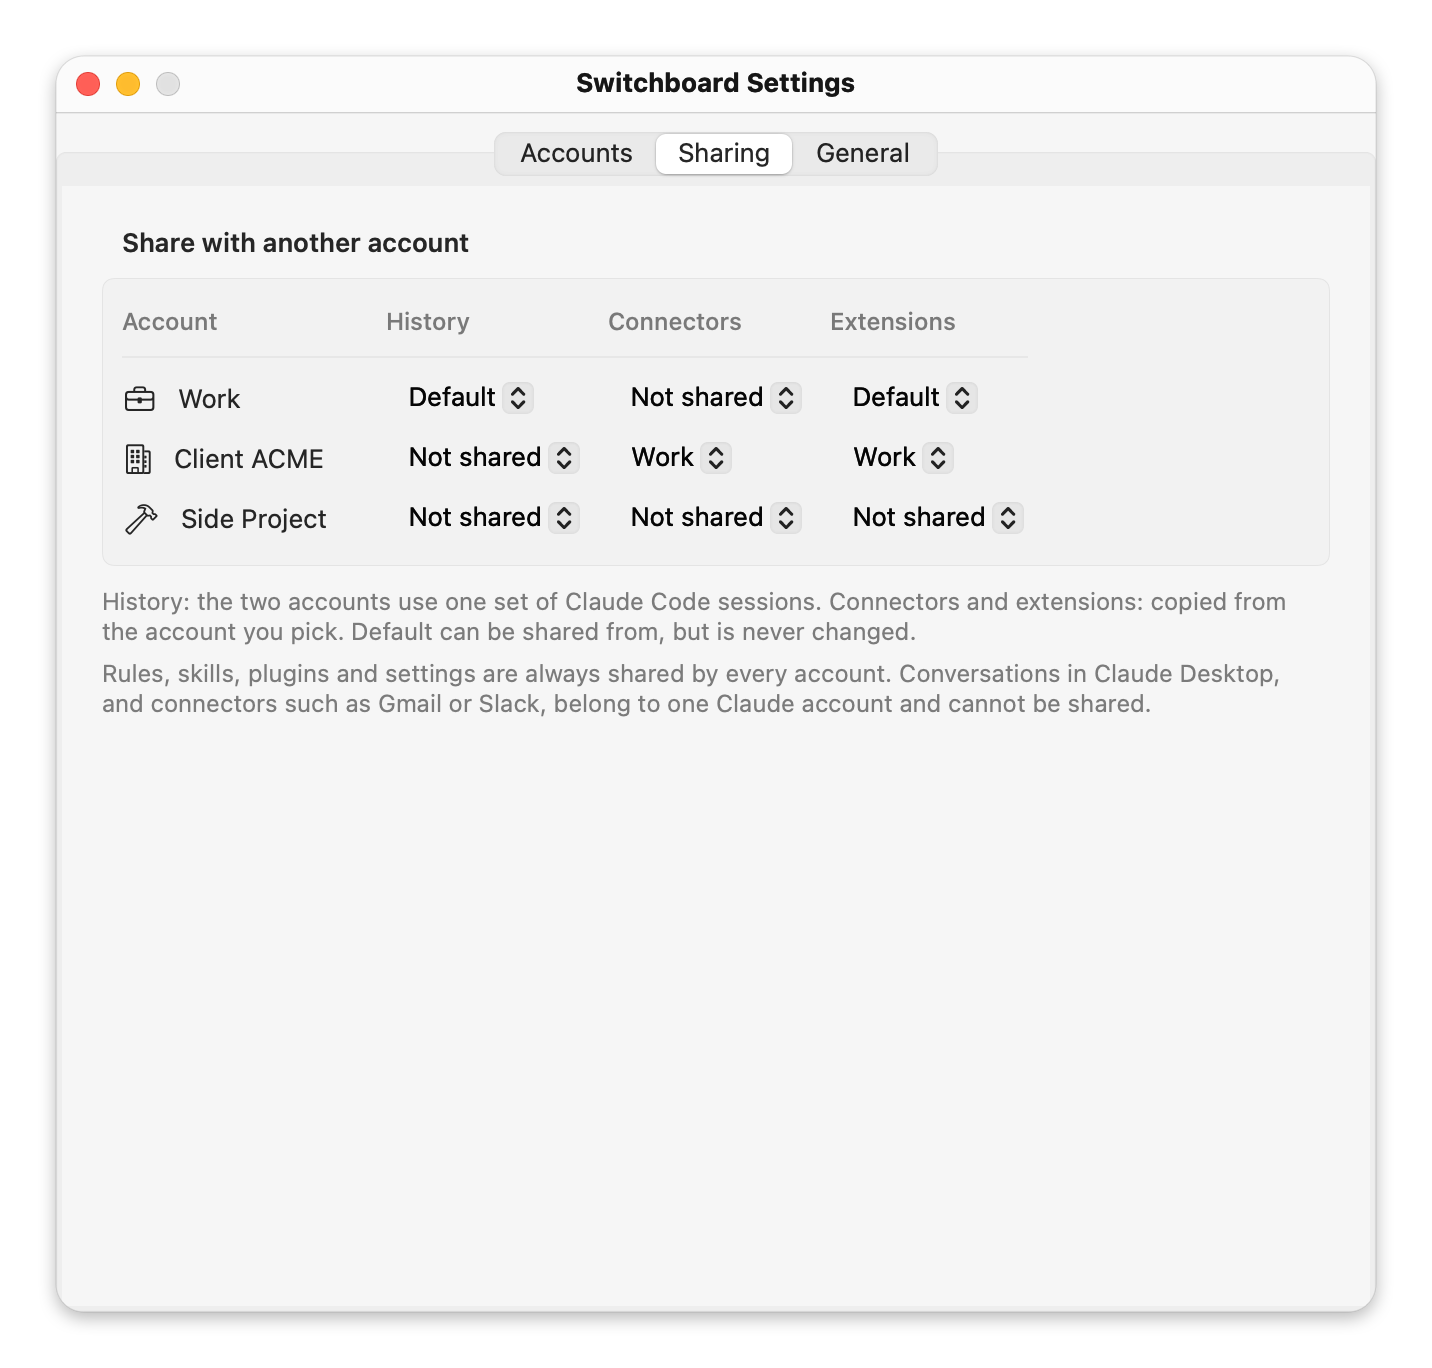
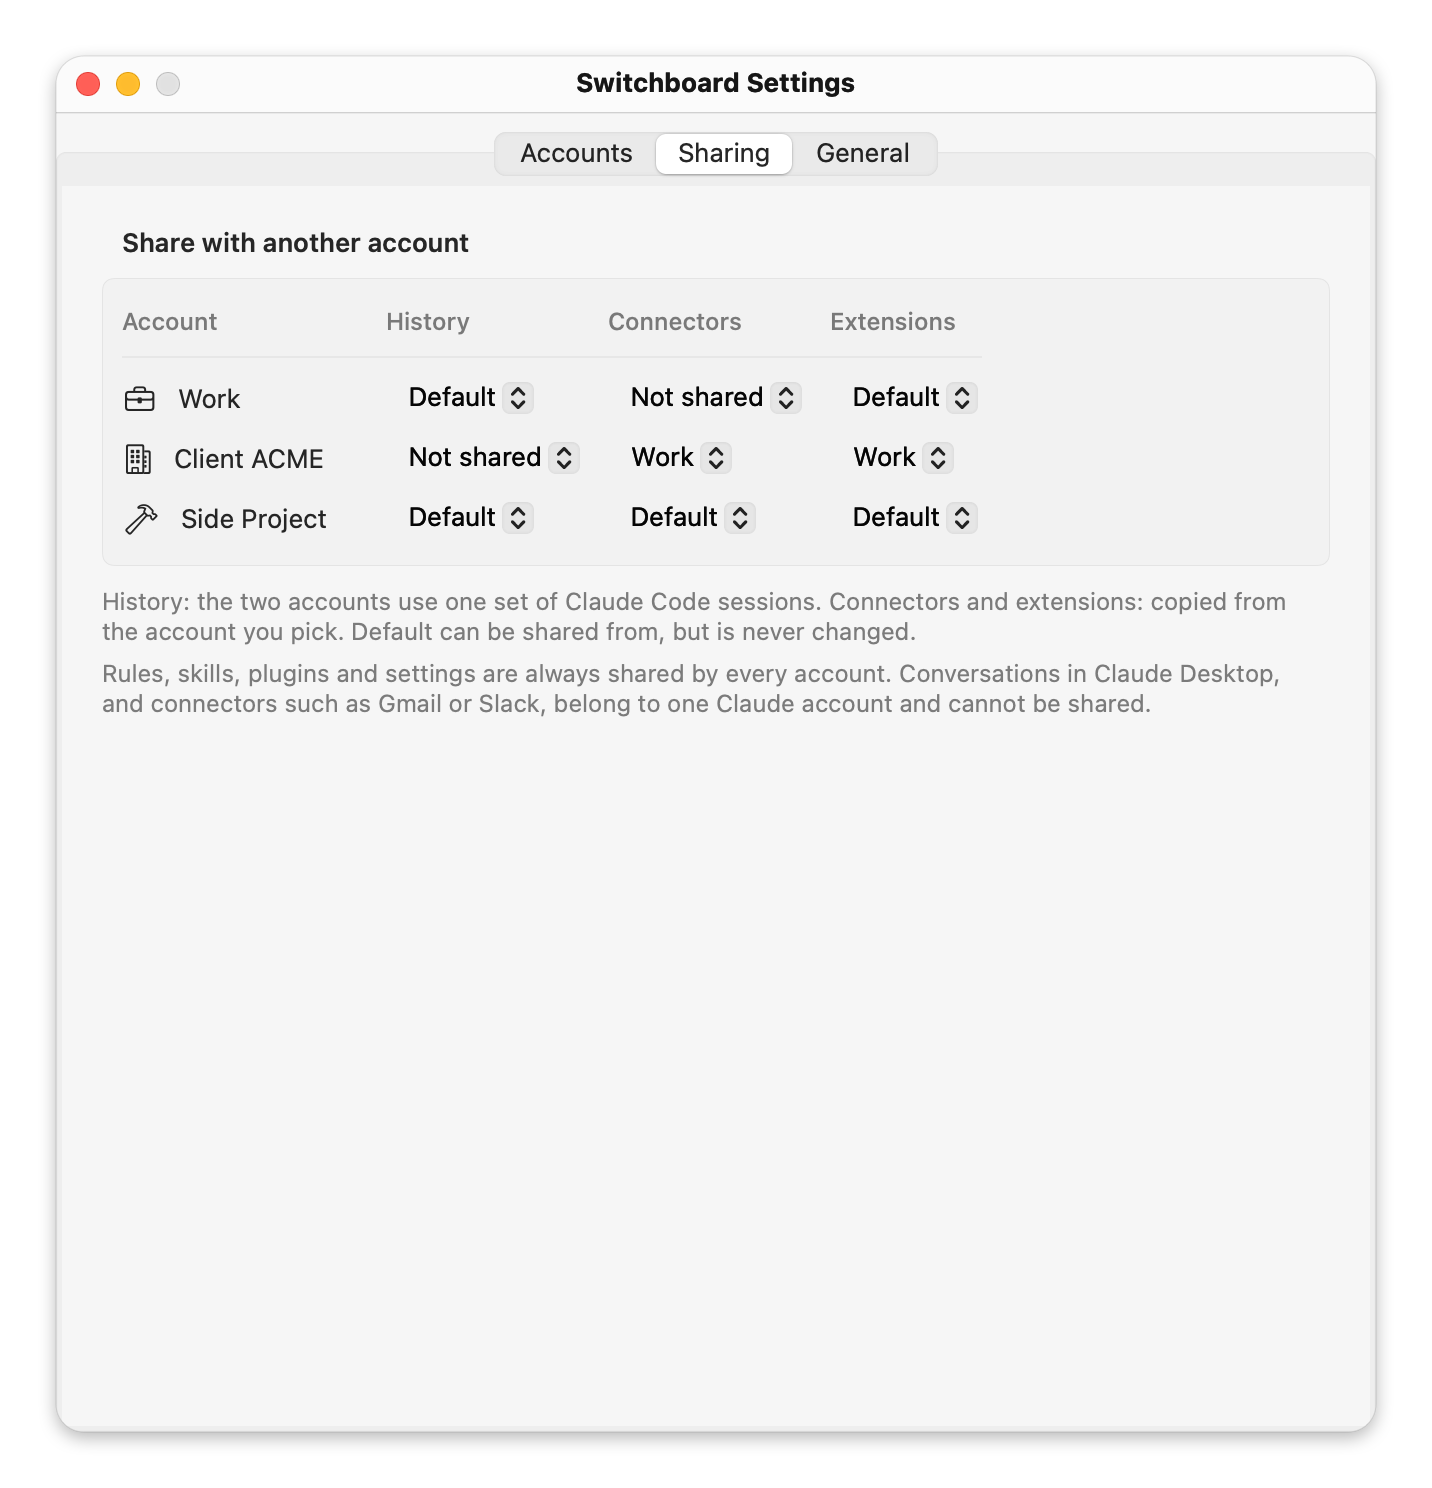
feat: Same as Default, and cprof continue
Extra accounts are mostly used to keep working in the same projects, so
a new account now starts sharing Default's Claude Code history,
connectors and extensions.

- Each account's page in Settings has a "Same as Default" switch. On, it
  shares all three with Default and hides the three menus. Turning it on
  asks first, since the account's sessions move into Default's.
- `cprof add <name> --separate` creates an account that shares none of
  them.
- `cprof continue <name> [-- args]` runs `claude --continue` as that
  account in the current folder. If the account does not share history
  with the current one, it says so and how to share it.
- The Settings window is a little taller so the account page fits.

diff --git a/Sources/cprof/CLI.swift b/Sources/cprof/CLI.swift
@@ -13,12 +13,16 @@ struct CLI {
         Usage: cprof <command> [args]
 
           list [--json]          List accounts and who is signed in (the default command)
-          add <name>             Create an account; "add My Work" is shown as My Work, used as my-work
+          add <name> [--separate]
+                                 Create an account; "add My Work" is shown as My Work, used as my-work.
+                                 It shares history, connectors and extensions with Default unless --separate
           rm <name> [--yes]      Sign out and delete an account and its data
           rename <name> [label]  Change the name shown for an account; no label resets it
           icon <name> [symbol]   Set an account's menu icon (e.g. briefcase); no symbol clears it
 
           cli [name] [-- args]   Run `claude` as an account
+          continue <name> [-- args]
+                                 Continue this folder's latest Claude Code conversation as another account
           desktop [name]         Open Claude Desktop as an account
           code [name]            Open a Terminal window running Claude Code
           login [name]           Open a Terminal window that signs Claude Code in
@@ -51,6 +55,7 @@ struct CLI {
         case "rename": try rename(try name(args, usage: "cprof rename <name> [label]"), Array(args.dropFirst()))
         case "icon": try icon(try name(args, usage: "cprof icon <name> [symbol]"), args.count > 1 ? args[1] : nil)
         case "cli", "run": try runClaude(args)
+        case "continue": try continueAs(args)
         case "desktop": try await ClaudeDesktop.open(store.profile(try resolve(args.first)))
         case "code": try TerminalLauncher.open(try resolve(args.first), mode: .claudeCode, store: store)
         case "login": try TerminalLauncher.open(try resolve(args.first), mode: .signIn, store: store)
@@ -120,12 +125,23 @@ struct CLI {
 
     /// `cprof add Work Stuff` makes the account `work-stuff`, shown as "Work Stuff".
     private func add(_ words: [String]) throws {
-        guard !words.isEmpty, !words[0].hasPrefix("-") else { throw SwitchboardError("usage: cprof add <name>") }
-        let profile = try store.create(words.joined(separator: " "))
-        try Sharing(store: store).apply()  // a new account joins whatever is shared
+        let separate = words.contains("--separate")
+        let nameWords = words.filter { $0 != "--separate" }
+        guard !nameWords.isEmpty, !nameWords[0].hasPrefix("-") else {
+            throw SwitchboardError("usage: cprof add <name> [--separate]")
+        }
+        let profile = try store.create(nameWords.joined(separator: " "))
+        if separate {
+            try Sharing(store: store).apply()
+        } else {
+            try Sharing(store: store).setSameAsDefault(profile.name, true)
+        }
         let shown = profile.label.map { " (shown as \($0))" } ?? ""
+        let sharing = separate ? "It shares only rules, skills, plugins and settings."
+                               : "It shares history, connectors and extensions with default."
         print("""
-            Created \(profile.name)\(shown). Sign in with:
+            Created \(profile.name)\(shown). \(sharing)
+            Sign in with:
               cprof login \(profile.name)      (Claude Code)
               cprof desktop \(profile.name)    (Claude Desktop)
             """)
@@ -195,6 +211,26 @@ struct CLI {
         let argv: [UnsafeMutablePointer<CChar>?] = ([claude.path] + args).map { strdup($0) } + [nil]
         execv(claude.path, argv)
         throw SwitchboardError("could not start \(claude.path): \(String(cString: strerror(errno)))")
+    }
+
+    /// `cprof continue personal`: reopen this folder's most recent Claude Code
+    /// conversation, as another account. It only finds the conversation when
+    /// the two accounts share history, so say so when they do not.
+    private func continueAs(_ arguments: [String]) throws {
+        guard let target = arguments.first, !target.hasPrefix("-") else {
+            throw SwitchboardError("usage: cprof continue <name> [-- args]")
+        }
+        try store.require(target)
+        let sharing = Sharing(store: store)
+        let current = store.resolve(explicit: nil, environment: environment, cwd: cwd).name
+        if current != target, store.exists(current), sharing.historyRoot(of: target) != sharing.historyRoot(of: current) {
+            FileHandle.standardError.write(Data((
+                "cprof: \(target) does not share history with \(current), so this starts a new conversation.\n"
+                + "cprof: to share it: cprof share \(target) history \(sharing.historyRoot(of: current))\n").utf8))
+        }
+        var rest = Array(arguments.dropFirst())
+        if rest.first == "--" { rest.removeFirst() }
+        try runClaude([target, "--", "--continue"] + rest)
     }
 
     /// `cprof share` shows a table; `cprof share work history default` changes it.

diff --git a/Sources/Switchboard/SettingsView.swift b/Sources/Switchboard/SettingsView.swift
@@ -7,7 +7,7 @@ import SwitchboardCore
 @MainActor
 final class SettingsWindow: NSObject, NSWindowDelegate {
     static let shared = SettingsWindow()
-    static let size = NSSize(width: 660, height: 600)
+    static let size = NSSize(width: 660, height: 660)
 
     let model = SettingsModel()
     private(set) var window: NSWindow?
@@ -152,15 +152,25 @@ private struct AccountDetail: View {
                         }
                     }
                 } else {
-                    ForEach(SharedThing.allCases, id: \.self) { thing in
-                        LabeledContent(thing.title) {
-                            SourcePicker(model: model, profile: profile, thing: thing).frame(width: 150)
+                    Toggle(isOn: Binding(get: { model.isSameAsDefault(profile) },
+                                         set: { model.setSameAsDefault(profile, $0) })) {
+                        VStack(alignment: .leading, spacing: 2) {
+                            Text("Same as Default")
+                            Text("Shares Default's Claude Code history, connectors and extensions, so you can continue on this account where Default left off.")
+                                .font(.callout).foregroundStyle(.secondary).fixedSize(horizontal: false, vertical: true)
                         }
-                        .help(thing.summary)
+                    }
+                    if !model.isSameAsDefault(profile) {
+                        ForEach(SharedThing.allCases, id: \.self) { thing in
+                            LabeledContent(thing.title) {
+                                SourcePicker(model: model, profile: profile, thing: thing).frame(width: 150)
+                            }
+                            .help(thing.summary)
+                        }
                     }
                 }
             } header: {
-                Text(profile.isDefault ? "Shared from this account" : "Share with")
+                Text(profile.isDefault ? "Shared from this account" : "Sharing")
             }
             Section {
                 HStack {

diff --git a/Sources/Switchboard/Actions.swift b/Sources/Switchboard/Actions.swift
@@ -68,8 +68,12 @@ enum Actions {
         guard !store.isDemo else { return nil }
         let accounts = accounts
         guard let typed = Dialogs.askNewAccountName(taken: { accounts.exists($0) }) else { return nil }
-        guard await perform({ try accounts.create(typed); try Sharing(store: accounts).apply() }),
-              let name = ProfileName.slug(typed), let profile = store.profile(named: name) else { return nil }
+        // A new account starts the same as Default: shared history,
+        // connectors and extensions. It can be switched off in Settings.
+        guard await perform({
+            let profile = try accounts.create(typed)
+            try Sharing(store: accounts).setSameAsDefault(profile.name, true)
+        }), let name = ProfileName.slug(typed), let profile = store.profile(named: name) else { return nil }
         await DesktopSignIn.run(profile)
         return name
     }
@@ -153,6 +157,20 @@ enum Actions {
         else { return false }
         Log.write("sharing: \(target) \(thing.rawValue) \(from.map { "from \($0)" } ?? "off")")
         if !notes.value.isEmpty { Dialogs.info("Some history was kept aside", notes.value.joined(separator: "\n")) }
+        return true
+    }
+
+    /// Switch "Same as Default" for an account. Returns true if it changed.
+    @discardableResult
+    static func setSameAsDefault(_ profile: Profile, _ on: Bool) async -> Bool {
+        if on, !Dialogs.confirm("Make “\(profile.displayName)” the same as Default?",
+                                "Its Claude Code sessions join Default's, and Default's connectors and extensions are copied in.",
+                                button: "Make Same") {
+            return false
+        }
+        let accounts = accounts, name = profile.name
+        guard await perform({ try Sharing(store: accounts).setSameAsDefault(name, on) }) else { return false }
+        Log.write("sharing: \(name) same as default \(on ? "on" : "off")")
         return true
     }
 

diff --git a/tests/SwitchboardCoreTests/SharingTests.swift b/tests/SwitchboardCoreTests/SharingTests.swift
@@ -86,6 +86,43 @@ struct SharingPlanTests {
     }
 }
 
+@Suite("Same as Default")
+struct SameAsDefaultTests {
+    @Test("One switch shares all three with the default account, and switches them all off")
+    func allThree() throws {
+        let box = try Sandbox()
+        try box.write("s1", to: box.defaultCLI.appendingPathComponent("projects/-repo/one.jsonl"))
+        try box.store.add("work")
+        #expect(!box.sharing.isSameAsDefault("work"))
+
+        try box.sharing.setSameAsDefault("work", true)
+        #expect(box.sharing.isSameAsDefault("work"))
+        for thing in SharedThing.allCases { #expect(box.sharing.source(thing, for: "work") == "default") }
+        #expect(box.linkTarget(box.projects("work")) == box.defaultCLI.appendingPathComponent("projects").path)
+
+        try box.sharing.setSameAsDefault("work", false)
+        #expect(box.sharing.sources()["work"] == nil)
+        #expect(!box.exists(box.projects("work")))
+        #expect(box.read(box.defaultCLI.appendingPathComponent("projects/-repo/one.jsonl")) == "s1")
+    }
+
+    @Test("Changing one thing afterwards means it is no longer the same as Default")
+    func partly() throws {
+        let box = try Sandbox()
+        try box.store.add("work"); try box.store.add("client")
+        try box.sharing.setSameAsDefault("work", true)
+        try box.sharing.setSource(.connectors, for: "work", to: "client")
+        #expect(!box.sharing.isSameAsDefault("work"))
+    }
+
+    @Test("Not for the default account itself")
+    func notForDefault() throws {
+        let box = try Sandbox()
+        #expect(throws: SwitchboardError.self) { try box.sharing.setSameAsDefault("default", true) }
+        #expect(!box.sharing.isSameAsDefault("default"))
+    }
+}
+
 @Suite("Sharing Claude Code history")
 struct SharedHistoryTests {
     @Test("An account links to its source's history folders")

diff --git a/Sources/SwitchboardCore/Sharing.swift b/Sources/SwitchboardCore/Sharing.swift
@@ -164,6 +164,36 @@ public struct Sharing: Sendable {
         return try apply()
     }
 
+    // MARK: - Same as Default
+
+    /// True when the account shares all three things with the default account.
+    public func isSameAsDefault(_ name: String) -> Bool {
+        guard name != Profile.defaultName, let things = sources()[name] else { return false }
+        return SharedThing.allCases.allSatisfy { things[$0] == Profile.defaultName }
+    }
+
+    /// Make an account share history, connectors and extensions with the
+    /// default account, or share none of them. The usual set-up when extra
+    /// accounts are there to keep working when another reaches its limit.
+    @discardableResult
+    public func setSameAsDefault(_ name: String, _ on: Bool) throws -> [String] {
+        try store.require(name)
+        guard name != Profile.defaultName else {
+            throw SwitchboardError("The default account is never changed, so it can only be shared from.")
+        }
+        var plan = loadPlan()
+        if on {
+            var things = plan.sources[name] ?? [:]
+            for thing in SharedThing.allCases { things[thing.rawValue] = Profile.defaultName }
+            plan.sources[name] = things
+        } else {
+            plan.sources[name] = nil
+        }
+        try save(plan)
+        if !on { unlinkHistory(name) }
+        return try apply()
+    }
+
     /// Forget an account that is being removed: its own sources, and every
     /// copy taken from it. History cannot be forgotten this way; callers must
     /// first check `historySharers(of:)`, because those accounts' sessions

diff --git a/Sources/Switchboard/SettingsModel.swift b/Sources/Switchboard/SettingsModel.swift
@@ -22,6 +22,12 @@ final class SettingsModel: ObservableObject {
     /// The accounts that can be given a source: all but the default one.
     var sharingAccounts: [Profile] { profiles.filter { !$0.isDefault } }
 
+    func isSameAsDefault(_ profile: Profile) -> Bool {
+        !profile.isDefault && SharedThing.allCases.allSatisfy { sources[profile.name]?[$0] == Profile.defaultName }
+    }
+
+    func setSameAsDefault(_ profile: Profile, _ on: Bool) { run { await Actions.setSameAsDefault(profile, on) } }
+
     func source(_ thing: SharedThing, for profile: Profile) -> Profile? {
         sources[profile.name]?[thing].flatMap { name in profiles.first { $0.name == name } }
     }

diff --git a/Sources/Switchboard/Demo.swift b/Sources/Switchboard/Demo.swift
@@ -78,6 +78,7 @@ enum Demo {
         settings.model.loadDemo(sources: [
             "work": [.history: "default", .extensions: "default"],
             "client-acme": [.connectors: "work", .extensions: "work"],
+            "side-project": [.history: "default", .connectors: "default", .extensions: "default"],
         ])
         settings.model.selected = "work"
         for tab in SettingsModel.Tab.allCases {

diff --git a/docs/getting-started.md b/docs/getting-started.md
@@ -49,6 +49,8 @@ Click the menu bar icon and choose **Add Account…**.
 
 Type a name, such as "Work", and click **Add**. The name is kept exactly as you type it.
 
+A new account starts **Same as Default**: it shares your Default account's Claude Code history, connectors and extensions. You can switch that off on its page in Settings.
+
 ## 3. Sign in
 
 A new Claude window opens for the account right away. Sign in there with Google or email, as you normally would.
@@ -137,6 +139,8 @@ Each account keeps its own sign-in, chat history, projects and MCP servers.
 
 <p align="center"><img src="images/settings-sharing.png" width="560" alt="Settings, Sharing tab: a table with one row per account and a menu for History, Connectors and Extensions in each row"></p>
 
+Each account's page in **Settings → Accounts** has a **Same as Default** switch. When it is on, the account shares all three things below with Default. New accounts start with it on. Switch it off to choose each one yourself.
+
 In **Settings → Sharing**, pick for each account which other account it shares with:
 
 - **History:** the two accounts use one set of Claude Code sessions, so either can resume them.
@@ -145,7 +149,17 @@ In **Settings → Sharing**, pick for each account which other account it shares
 
 For example, set Client's Connectors to Work, and Client gets every MCP server you add in Work. Leave Personal at "Not shared" and it stays separate.
 
-The same menus are on each account's page in **Settings → Accounts**. Default can be shared from but is never changed.
+The same menus are on each account's page in **Settings → Accounts**, when Same as Default is off. Default can be shared from but is never changed.
+
+### Continuing on another account
+
+When two accounts share history, a Claude Code conversation started in one can be continued in the other. In the project folder, run:
+
+```bash
+cprof continue personal
+```
+
+This opens the folder's most recent conversation as Personal.
 
 Conversations in Claude Desktop, and connectors such as Gmail or Slack, belong to one Claude account on Anthropic's servers and cannot be shared. [How it works](how-it-works.md#optional-sharing) has the details.
 

diff --git a/docs/cli.md b/docs/cli.md
@@ -43,9 +43,9 @@ $ cprof list
 
 `--json` prints the same accounts for scripts, with these fields: `name`, `label`, `email`, `icon`, `desktopRunning`, `desktopSignedIn`, `cliDir`, `desktopDir`.
 
-### `cprof add <name>`
+### `cprof add <name> [--separate]`
 
-Creates an account: its folders, and links to your shared rules, agents, skills and settings.
+Creates an account: its folders, and links to your shared rules, agents, skills and settings. It also shares Default's Claude Code history, connectors and extensions, unless you pass `--separate`.
 
 ```bash
 cprof add work
@@ -55,7 +55,7 @@ You can type the name the way you want it shown. The account's own name is a tid
 
 ```
 $ cprof add My Work
-Created my-work (shown as My Work).
+Created my-work (shown as My Work). It shares history, connectors and extensions with default.
 ```
 
 ### `cprof rm <name> [--yes]`
@@ -99,6 +99,16 @@ cprof cli work
 ```bash
 cprof cli work -- --resume
 ```
+
+### `cprof continue <name> [-- args]`
+
+Opens the current folder's most recent Claude Code conversation as another account. It runs `claude --continue` as that account.
+
+```bash
+cprof continue personal
+```
+
+The conversation is only found if the two accounts share history. If they do not, cprof says so and Claude Code starts a new conversation.
 
 ### `cprof desktop [name]`
 

diff --git a/README.md b/README.md
@@ -23,7 +23,8 @@ Switchboard gives each account its own Claude Desktop window and its own Claude 
 - **Every account, one click away.** Open any account's Claude Desktop or Claude Code from the menu. A green dot shows which are running.
 - **Truly side by side.** Each account has its own sign-in, chats and projects. Nothing is signed out to make room.
 - **One shared setup.** Your `CLAUDE.md`, rules, agents, skills, hooks and settings apply to every account, from one place.
-- **Share between the accounts you choose.** Pick which account shares Claude Code sessions, MCP servers or Desktop extensions with which.
+- **Share between the accounts you choose.** New accounts share Claude Code sessions, MCP servers and Desktop extensions with Default. You can pick other sources, or share nothing.
+- **Continue on another account.** `cprof continue personal` opens this folder's latest Claude Code conversation as Personal.
 - **Per-project accounts.** Pin a folder to an account, and `claude` uses it there.
 - **A command-line twin.** `cprof` does everything the menu does, for scripts and terminals.
 - **Leaves your setup alone.** Your current Claude becomes the "Default" account. Switchboard never moves or changes it.

diff --git a/docs/how-it-works.md b/docs/how-it-works.md
@@ -32,7 +32,9 @@ If you want one account to differ, replace its link with a real file inside `~/.
 
 ## Optional sharing
 
-Beyond the items above, an account can share three more things with another account. You choose, for each account and each thing, which account it shares with. Nothing is shared until you choose.
+Beyond the items above, an account can share three more things with another account. You choose, for each account and each thing, which account it shares with.
+
+A new account starts **Same as Default**: it shares all three with the Default account. Switch that off in Settings, or create the account with `cprof add <name> --separate`, and nothing more is shared until you choose.
 
 Make the choices in **Settings → Sharing**, on an account's page in **Settings → Accounts**, or with `cprof share`.
 

diff --git a/docs/troubleshooting.md b/docs/troubleshooting.md
@@ -50,6 +50,10 @@ Connectors are copied from the account chosen in **Settings → Sharing**, not f
 
 In **Settings → Sharing**, set that account's Extensions to the account that has them, then quit and reopen its Claude Desktop. Extensions are copied only when its Claude Desktop starts, never while it is running.
 
+### `cprof continue` starts a new conversation
+
+The account you continue on does not share history with the one you were using, so it cannot see that conversation. Run the command cprof prints, such as `cprof share personal history default`, or switch on **Same as Default** for that account.
+
 ### "That would share history in a loop"
 
 History can chain from one account to the next, but not back round to where it started. Pick an account further along the chain instead, or Default.
